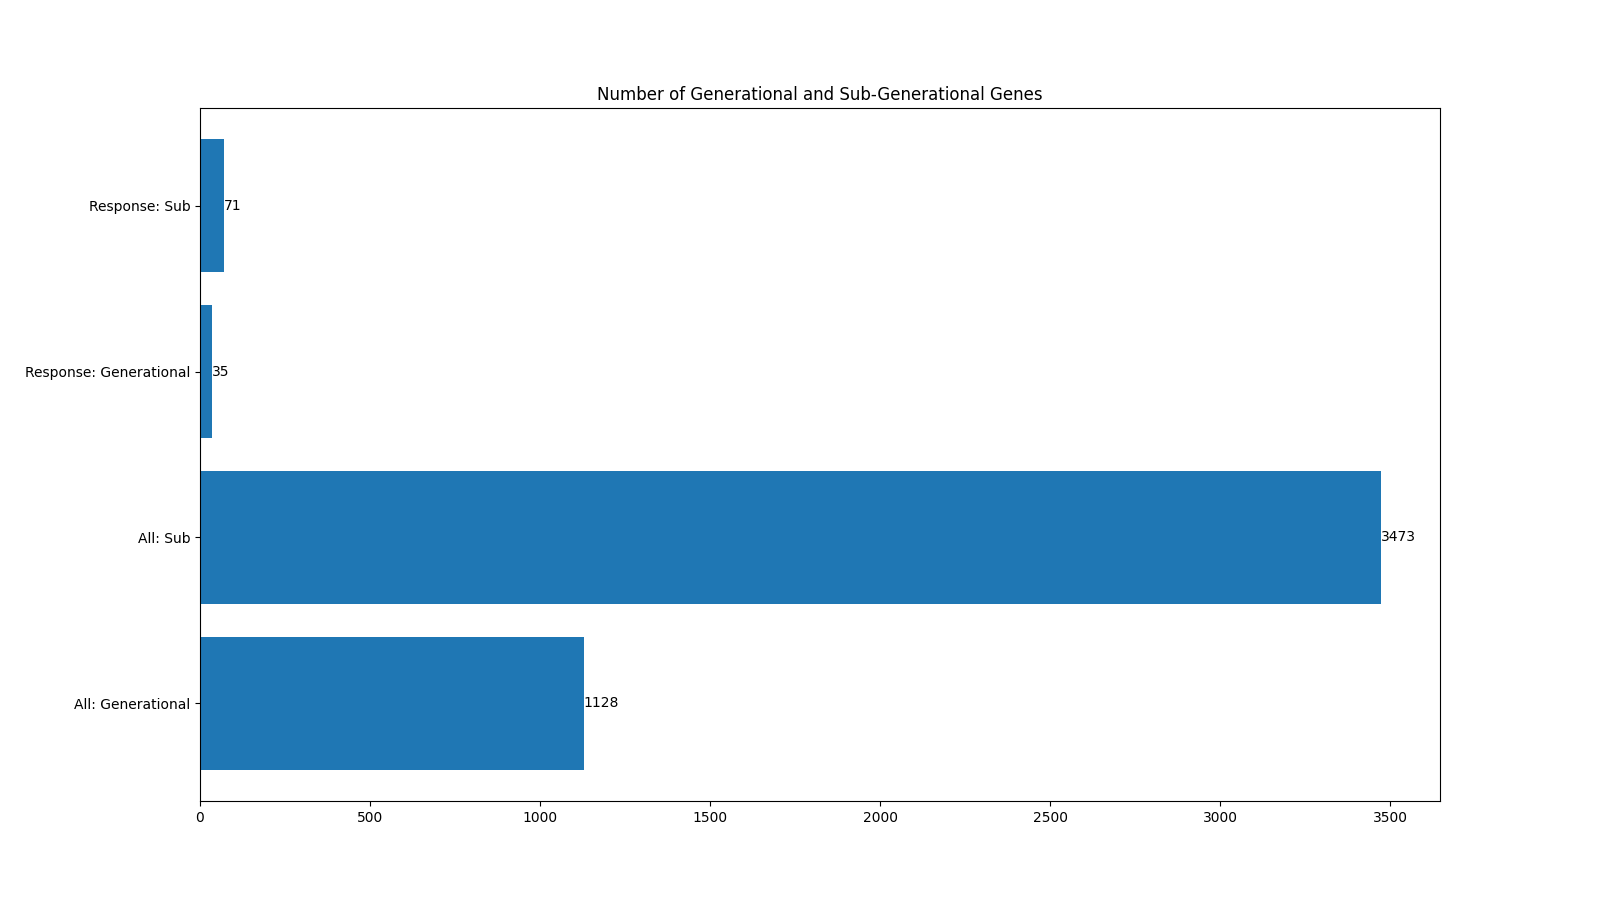
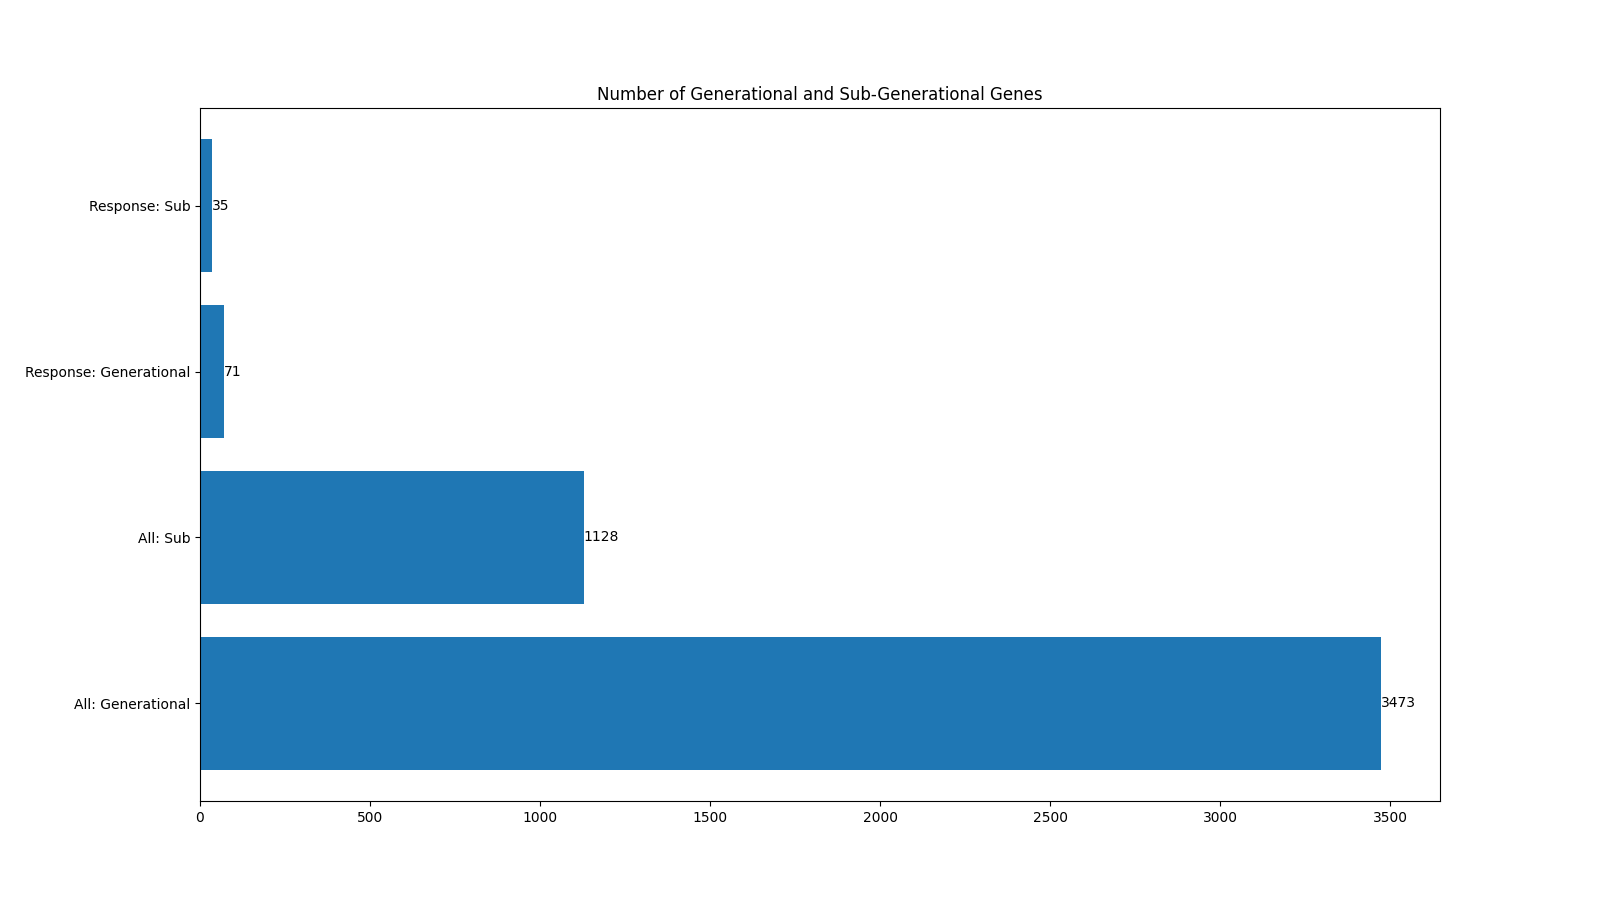
Swapped labels of gene bar graph.

Changed region(s): [[0.3438, 0.4978, 0.875, 0.8711], [0.125, 0.3422, 0.1562, 0.4978], [0.125, 0.1556, 0.1562, 0.3111]]

diff --git a/data/subgen_gene_plots/generate_plots.py b/data/subgen_gene_plots/generate_plots.py
@@ -77,19 +77,19 @@ def main():
     cutoff_tuple = prob_gene_tuples[CUTOFF_INDEX]
     generational_prob_cutoff = cutoff_tuple[0]
 
-    num_all_generational = 0
+    num_all_sub_gen = 0
     for prob, gene_id in rna_prob_tuples:
         if prob < generational_prob_cutoff:
             break
-        num_all_generational += 1
-    num_all_sub_gen = len(rna_prob_tuples) - num_all_generational
+        num_all_sub_gen += 1
+    num_all_generational = len(rna_prob_tuples) - num_all_sub_gen
 
-    num_r_generational = 0
+    num_r_sub_gen = 0
     for prob, gene_id in r_gene_prob_tuples:
         if prob < generational_prob_cutoff:
             break
-        num_r_generational += 1
-    num_r_sub_gen = len(r_gene_prob_tuples) - num_r_generational
+        num_r_sub_gen += 1
+    num_r_generational = len(r_gene_prob_tuples) - num_r_sub_gen
 
     data = {'All: Generational': num_all_generational, 'All: Sub': num_all_sub_gen,
             'Response: Generational': num_r_generational, 'Response: Sub': num_r_sub_gen}
